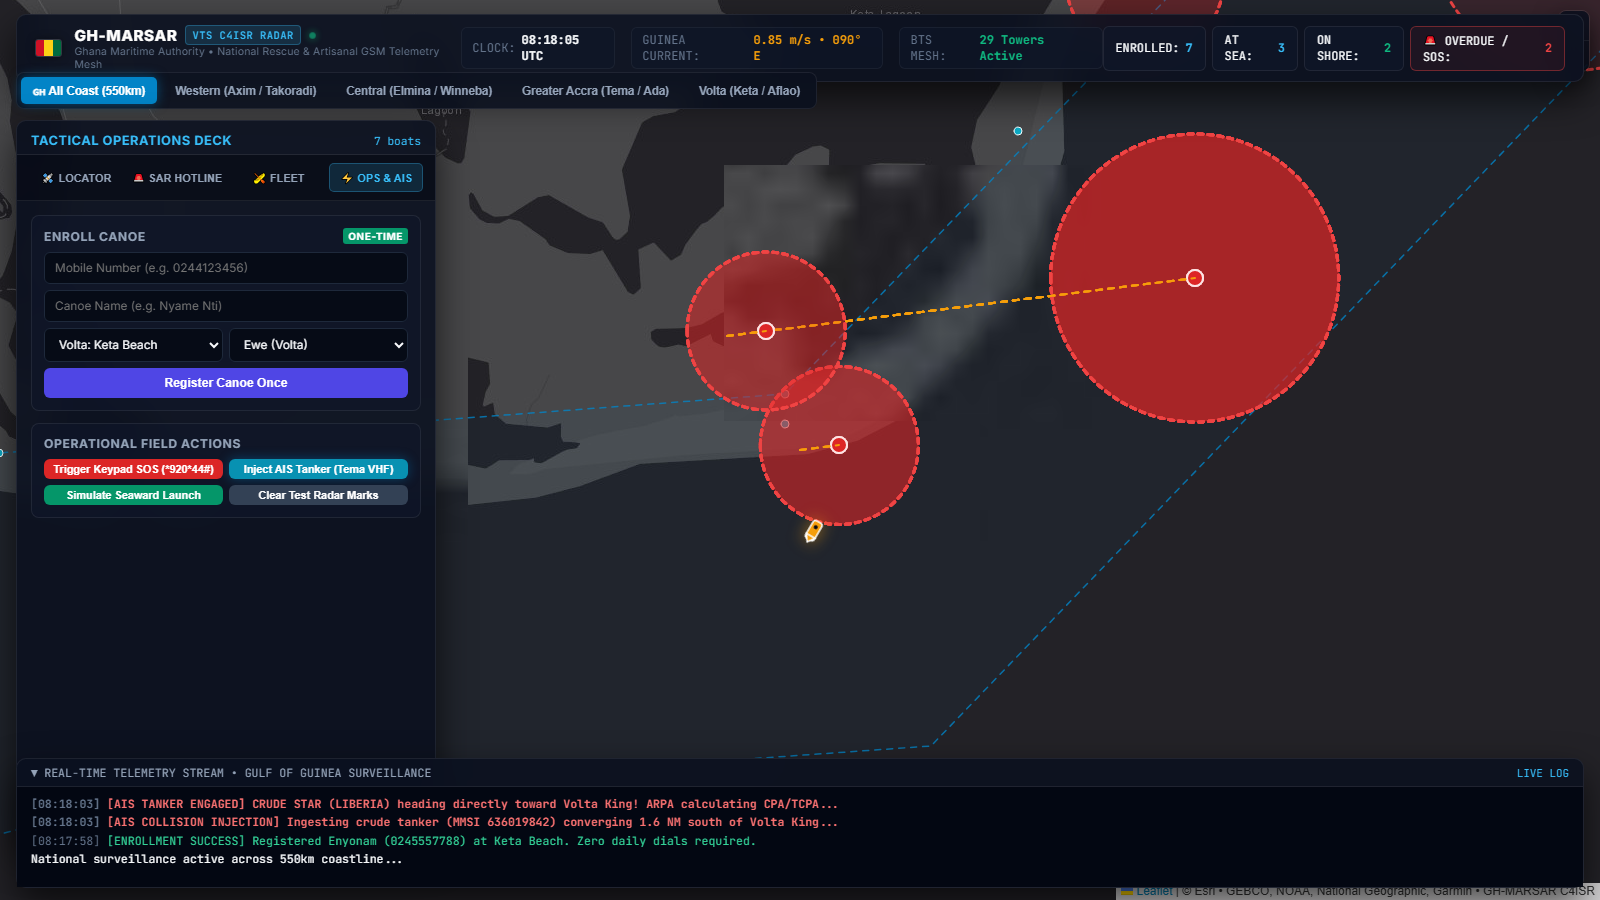
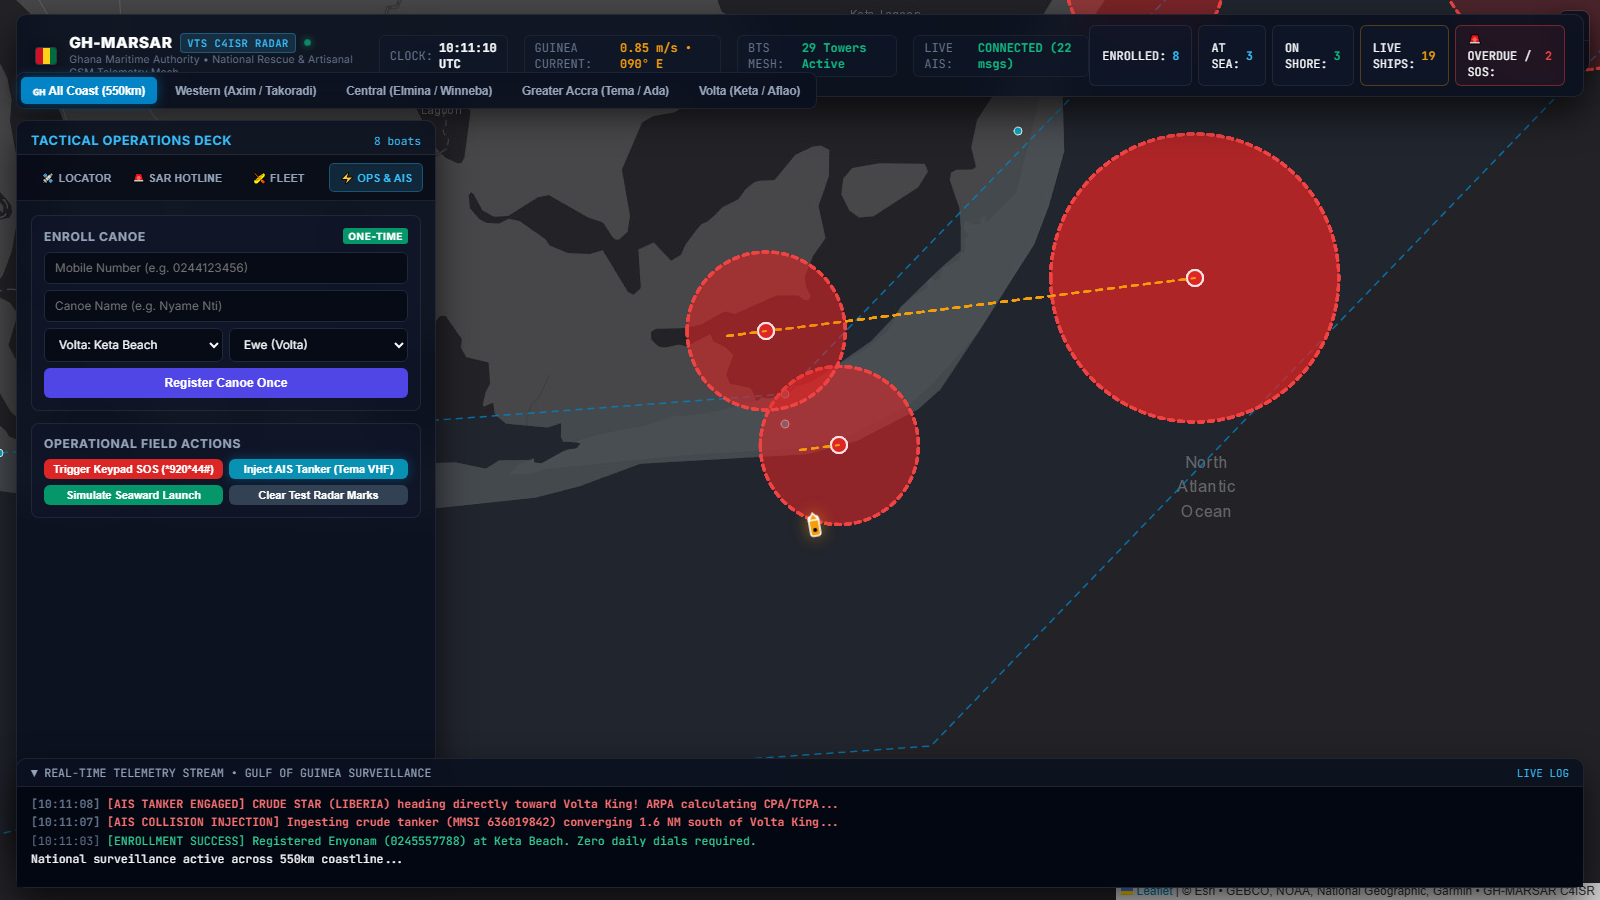
feat(ais): stream real-time satellite & VHF AIS telemetry from AISStream.io

diff --git a/geomesh/server.py b/geomesh/server.py
@@ -48,9 +48,21 @@ durable_store = DurableStore()
 telecom_gateway = TelecomPassiveGateway(store=durable_store)
 sar_watchdog = SARWatchdog(durable_store)
 ais_decoder = AISDecoder()
+from geomesh.live_ais import LiveAISStreamClient
+live_ais_client = LiveAISStreamClient(engine=_engine)
 
 _telemetry_pings_total = 0
 _geofence_breaches_total = 0
+
+
+@app.on_event("startup")
+async def startup_event():
+    live_ais_client.start()
+
+
+@app.on_event("shutdown")
+async def shutdown_event():
+    live_ais_client.stop()
 
 # Clean state backed by SQLite WAL database - no hardcoded mock fishermen
 
@@ -367,8 +379,14 @@ def snapshot_fleet(request: Request) -> Dict[str, Any]:
             if sub:
                 status_str = sub.status.value if hasattr(sub.status, "value") else str(sub.status)
 
+        meta = live_ais_client.get_vessel_metadata(ent_id)
+        ship_name = meta["ship_name"] if meta else (ent_id if not ent_id.startswith("canoe-") else None)
+        is_live = meta is not None
+
         vehicles.append({
             "entity_id": ent_id,
+            "ship_name": ship_name,
+            "is_live": is_live,
             "position": {"lat": pos.lat, "lon": pos.lon},
             "kinematics": {
                 "velocity_mps": k_state.velocity_mps if k_state else 0.0,
@@ -393,6 +411,9 @@ def snapshot_fleet(request: Request) -> Dict[str, Any]:
         "snapshot_id": snapshot_id,
         "timestamp_ns": time.time_ns(),
         "total_tracked_vehicles": len(vehicles),
+        "live_ais_status": live_ais_client.status,
+        "live_ais_messages": live_ais_client.total_messages_received,
+        "live_vessels_count": live_ais_client.total_vessels_tracked,
         "vehicles": vehicles,
         "collision_hazards": hazards,
         "status": "FLEET_SNAPSHOT_COMMITTED",
@@ -770,6 +791,34 @@ def ingest_ais_nmea(req: AISNMEARequest) -> Dict[str, Any]:
             "destination": report.destination,
         }
     return {"decoded": False}
+
+
+@app.get("/v1/ais/live/status", tags=["AIS Commercial Ship Telemetry"])
+def get_live_ais_status() -> Dict[str, Any]:
+    """Get status and live statistics from AISStream.io real-time satellite & coastal feed."""
+    return {
+        "status": live_ais_client.status,
+        "api_key_configured": bool(live_ais_client.api_key),
+        "total_messages_received": live_ais_client.total_messages_received,
+        "total_vessels_tracked": live_ais_client.total_vessels_tracked,
+        "last_connected_time": live_ais_client.last_connected_time,
+        "last_message_time": live_ais_client.last_message_time,
+        "tracked_vessels": list(live_ais_client._vessel_metadata.values()),
+    }
+
+
+@app.post("/v1/ais/live/start", tags=["AIS Commercial Ship Telemetry"])
+def start_live_ais() -> Dict[str, Any]:
+    """Start live background AIS stream from AISStream.io."""
+    live_ais_client.start()
+    return {"started": True, "status": live_ais_client.status}
+
+
+@app.post("/v1/ais/live/stop", tags=["AIS Commercial Ship Telemetry"])
+def stop_live_ais() -> Dict[str, Any]:
+    """Stop live background AIS stream from AISStream.io."""
+    live_ais_client.stop()
+    return {"stopped": True, "status": live_ais_client.status}
 
 
 @app.post("/v1/ais/vessel/inject", tags=["AIS Commercial Ship Telemetry"])
@@ -1410,6 +1459,10 @@ def get_map_dashboard() -> str:
         <span style="color:var(--text-faint);">BTS MESH:</span>
         <span class="telemetry-val" style="color:var(--accent-emerald);">29 Towers Active</span>
       </div>
+      <div class="telemetry-item">
+        <span style="color:var(--text-faint);">LIVE AIS:</span>
+        <span id="liveAISBadge" class="telemetry-val" style="color:#10b981;">CONNECTING...</span>
+      </div>
     </div>
 
     <!-- Fleet Status Metrics Badges -->
@@ -1417,6 +1470,7 @@ def get_map_dashboard() -> str:
       <div class="stat-badge">ENROLLED: <span id="statEnrolled" class="stat-val">0</span></div>
       <div class="stat-badge">AT SEA: <span id="statAtSea" class="stat-val" style="color:#38bdf8;">0</span></div>
       <div class="stat-badge">ON SHORE: <span id="statOnShore" class="stat-val" style="color:#10b981;">0</span></div>
+      <div class="stat-badge" style="border-color:rgba(245,158,11,0.3);">LIVE SHIPS: <span id="statShips" class="stat-val" style="color:#f59e0b;">0</span></div>
       <div class="stat-badge" style="border-color:rgba(239,68,68,0.4);background:rgba(239,68,68,0.08);">
         🚨 OVERDUE / SOS: <span id="statSOS" class="stat-sos">0</span>
       </div>
@@ -1602,6 +1656,7 @@ def get_map_dashboard() -> str:
 
     // High-Contrast CartoDB Dark Matter Maritime Basemap
     const map = L.map('map', { zoomControl: false }).setView([5.30, -0.85], 8);
+    window.leafletMap = map;
     L.control.zoom({ position: 'topright' }).addTo(map);
 
     L.tileLayer('https://server.arcgisonline.com/ArcGIS/rest/services/Canvas/World_Dark_Gray_Base/MapServer/tile/{z}/{y}/{x}', {
@@ -1834,21 +1889,24 @@ def get_map_dashboard() -> str:
           snap.vehicles.forEach(v => {
             const isCanoe = v.entity_id.startsWith('canoe-');
             const pt = [v.position.lat, v.position.lon];
+            const titleName = v.ship_name || (isCanoe ? "ARTISANAL CANOE" : "COMMERCIAL VESSEL");
+            let popupHtml = "<b>" + (isCanoe ? "⛴ ARTISANAL CANOE" : "🚢 " + titleName) + "</b><br>" +
+              "ID: <b>" + v.entity_id + "</b><br>" +
+              "Speed: " + (v.speed_mps * 1.94384).toFixed(1) + " knots<br>" +
+              "Heading: " + v.heading_deg.toFixed(0) + "&deg;<br>" +
+              "Position: [" + v.position.lat.toFixed(4) + ", " + v.position.lon.toFixed(4) + "]<br>";
+            if (v.is_live) {
+              popupHtml += '<span style="color:#10b981;font-weight:700;">🟢 LIVE SATELLITE/VHF AIS</span>';
+            }
             if (vesselMarkers[v.entity_id]) {
               vesselMarkers[v.entity_id].setLatLng(pt);
               vesselMarkers[v.entity_id].setIcon(createVesselIcon(isCanoe, v.status, v.heading_deg));
+              vesselMarkers[v.entity_id].setPopupContent(popupHtml);
             } else {
               const marker = L.marker(pt, {
                 icon: createVesselIcon(isCanoe, v.status, v.heading_deg)
               }).addTo(map);
-
-              marker.bindPopup(`
-                <b>${isCanoe ? '🛶 ARTISANAL CANOE' : '🚢 COMMERCIAL VESSEL'}</b><br>
-                ID: <b>${v.entity_id}</b><br>
-                Speed: ${(v.speed_mps * 1.94384).toFixed(1)} knots<br>
-                Heading: ${v.heading_deg.toFixed(0)}&deg;<br>
-                Position: [${v.position.lat.toFixed(4)}, ${v.position.lon.toFixed(4)}]
-              `);
+              marker.bindPopup(popupHtml);
               vesselMarkers[v.entity_id] = marker;
             }
           });
@@ -1874,6 +1932,14 @@ def get_map_dashboard() -> str:
           } else if (window.hazardLine) {
             map.removeLayer(window.hazardLine);
             window.hazardLine = null;
+          }
+
+          const shipsCount = snap.vehicles.filter(v => !v.entity_id.startsWith('canoe-')).length;
+          const shipBadge = document.getElementById('statShips');
+          if (shipBadge) shipBadge.innerText = shipsCount;
+          const aisBadge = document.getElementById('liveAISBadge');
+          if (aisBadge && snap.live_ais_status) {
+            aisBadge.innerText = snap.live_ais_status + ' (' + (snap.live_ais_messages || 0) + ' msgs)';
           }
         }
       } catch (e) {}

diff --git a/geomesh/live_ais.py b/geomesh/live_ais.py
@@ -1,0 +1,171 @@
+"""
+Live AISStream.io WebSocket connector for Real-Time Commercial Vessel Telemetry.
+Connects to wss://stream.aisstream.io/v0/stream, subscribes to the Gulf of Guinea /
+Ghanaian territorial waters, and continuously streams live ships into GeoMeshEngine.
+"""
+
+from __future__ import annotations
+
+import asyncio
+import json
+import logging
+import time
+from typing import Any, Dict, List, Optional
+import websockets
+
+from geomesh.engine import GeoMeshEngine
+from geomesh.types import TelemetryPing
+
+logger = logging.getLogger("geomesh.live_ais")
+
+DEFAULT_API_KEY = "1639ae6602e8a6206c913eb901f87c2ea2b7c945"
+
+# Bounding box for Gulf of Guinea covering Ghana EEZ, anchorages, and shipping lanes:
+# Top-Left: [7.0, -4.5] (Western border / Ivory Coast to inland)
+# Bottom-Right: [2.5, 3.0] (Deep Gulf of Guinea south of Togo/Benin)
+DEFAULT_BOUNDING_BOXES = [
+    [[7.0, -4.5], [2.5, 3.0]],          # Primary Ghana & Gulf of Guinea coastal waters
+    [[10.0, -15.0], [0.0, 10.0]],        # Broader West Africa maritime corridor
+]
+
+
+class LiveAISStreamClient:
+    """Asynchronous background worker streaming real-world AIS messages into GeoMeshEngine."""
+
+    def __init__(
+        self,
+        engine: GeoMeshEngine,
+        api_key: str = DEFAULT_API_KEY,
+        bounding_boxes: Optional[List[List[List[float]]]] = None,
+    ):
+        self.engine = engine
+        self.api_key = api_key
+        self.bounding_boxes = bounding_boxes or DEFAULT_BOUNDING_BOXES
+        self._running = False
+        self._task: Optional[asyncio.Task] = None
+        self._vessel_metadata: Dict[str, Dict[str, Any]] = {}
+        self.total_messages_received = 0
+        self.total_vessels_tracked = 0
+        self.last_connected_time: Optional[float] = None
+        self.last_message_time: Optional[float] = None
+        self.status = "DISCONNECTED"
+
+    def get_vessel_metadata(self, entity_id: str) -> Optional[Dict[str, Any]]:
+        return self._vessel_metadata.get(entity_id)
+
+    def start(self) -> None:
+        if self._running:
+            return
+        self._running = True
+        self._task = asyncio.create_task(self._run_loop())
+        logger.info("Live AISStream client background task initiated.")
+
+    def stop(self) -> None:
+        self._running = False
+        if self._task and not self._task.done():
+            self._task.cancel()
+        self.status = "STOPPED"
+        logger.info("Live AISStream client stopped.")
+
+    async def _run_loop(self) -> None:
+        uri = "wss://stream.aisstream.io/v0/stream"
+        backoff_sec = 2.0
+
+        while self._running:
+            try:
+                self.status = "CONNECTING"
+                logger.info(f"Connecting to live AIS WebSocket: {uri}...")
+                async with websockets.connect(
+                    uri,
+                    ping_interval=25,
+                    ping_timeout=25,
+                    close_timeout=10,
+                ) as ws:
+                    self.status = "CONNECTED"
+                    self.last_connected_time = time.time()
+                    backoff_sec = 2.0  # Reset backoff on successful connect
+
+                    # Send AISStream subscription packet
+                    sub_payload = {
+                        "APIKey": self.api_key,
+                        "BoundingBoxes": self.bounding_boxes,
+                        "FilterMessageTypes": [
+                            "PositionReport",
+                            "StandardClassBPositionReport",
+                            "ExtendedClassBPositionReport",
+                        ],
+                    }
+                    await ws.send(json.dumps(sub_payload))
+                    logger.info("Subscribed to live AIS stream for Gulf of Guinea / West Africa.")
+
+                    async for raw_msg in ws:
+                        if not self._running:
+                            break
+                        self.last_message_time = time.time()
+                        self.total_messages_received += 1
+                        self._process_message(raw_msg)
+
+            except asyncio.CancelledError:
+                break
+            except Exception as e:
+                self.status = f"ERROR: {type(e).__name__}"
+                logger.warning(f"AISStream WebSocket connection dropped: {e}. Retrying in {backoff_sec:.1f}s...")
+                await asyncio.sleep(backoff_sec)
+                backoff_sec = min(backoff_sec * 1.5, 30.0)
+
+        self.status = "DISCONNECTED"
+
+    def _process_message(self, raw_msg: str) -> None:
+        try:
+            payload = json.loads(raw_msg)
+            msg_type = payload.get("MessageType")
+            meta = payload.get("MetaData", {})
+            mmsi = meta.get("MMSI")
+            ship_name = (meta.get("ShipName") or "").strip()
+
+            pos_msg = None
+            if msg_type == "PositionReport":
+                pos_msg = payload.get("Message", {}).get("PositionReport", {})
+            elif msg_type == "StandardClassBPositionReport":
+                pos_msg = payload.get("Message", {}).get("StandardClassBPositionReport", {})
+            elif msg_type == "ExtendedClassBPositionReport":
+                pos_msg = payload.get("Message", {}).get("ExtendedClassBPositionReport", {})
+
+            if not pos_msg:
+                return
+
+            lat = pos_msg.get("Latitude")
+            lon = pos_msg.get("Longitude")
+            sog_knots = float(pos_msg.get("Sog") or pos_msg.get("SpeedOverGround") or 0.0)
+            cog_deg = float(pos_msg.get("Cog") or pos_msg.get("CourseOverGround") or 0.0)
+
+            if lat is None or lon is None or not mmsi or (abs(lat) < 0.001 and abs(lon) < 0.001):
+                return
+
+            entity_id = f"MMSI-{mmsi}"
+            speed_mps = sog_knots * 0.514444
+
+            # Store ship metadata
+            self._vessel_metadata[entity_id] = {
+                "mmsi": mmsi,
+                "ship_name": ship_name if ship_name else f"VESSEL {mmsi}",
+                "speed_knots": round(sog_knots, 1),
+                "heading_deg": round(cog_deg, 0),
+                "last_seen_utc": meta.get("time_utc") or time.strftime("%Y-%m-%dT%H:%M:%SZ", time.gmtime()),
+                "source": "LIVE_AISSTREAM",
+            }
+            self.total_vessels_tracked = len(self._vessel_metadata)
+
+            # Ingest live ping into spatial engine
+            ping = TelemetryPing.create(
+                entity_id=entity_id,
+                lat=lat,
+                lon=lon,
+                speed_mps=speed_mps,
+                heading_deg=cog_deg,
+                timestamp_ns=time.time_ns(),
+            )
+            self.engine.ingest_telemetry(ping)
+
+        except Exception as ex:
+            logger.debug(f"Error parsing live AIS message: {ex}")
